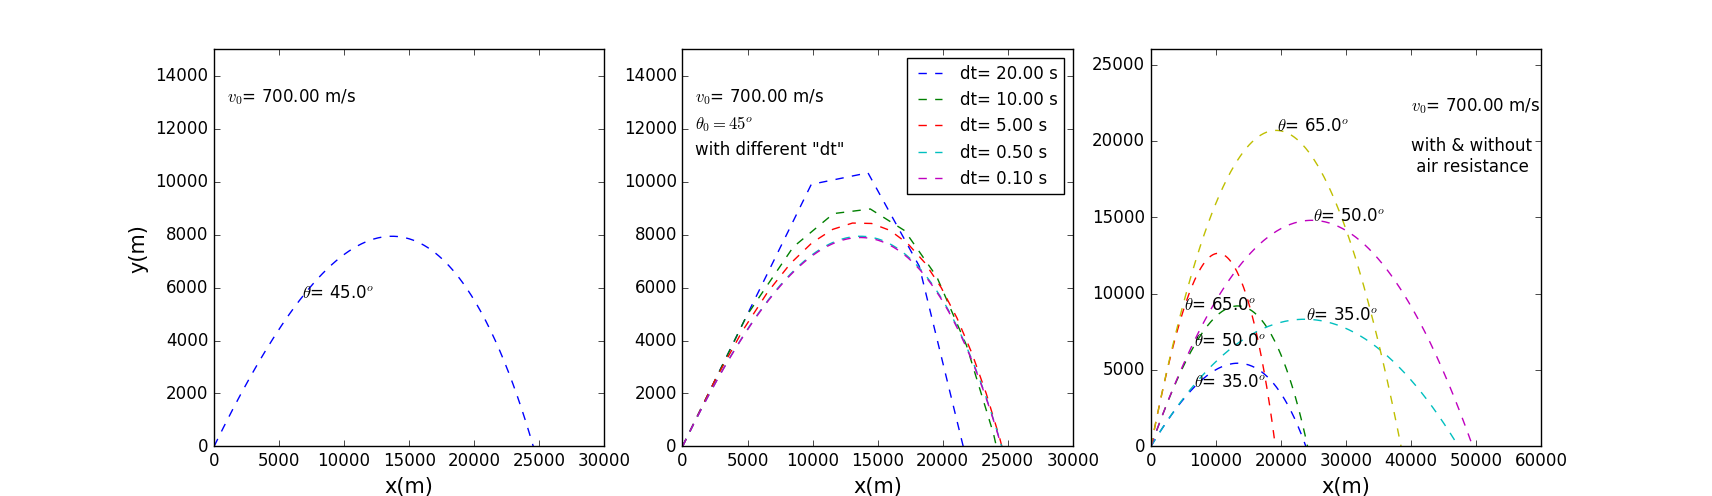
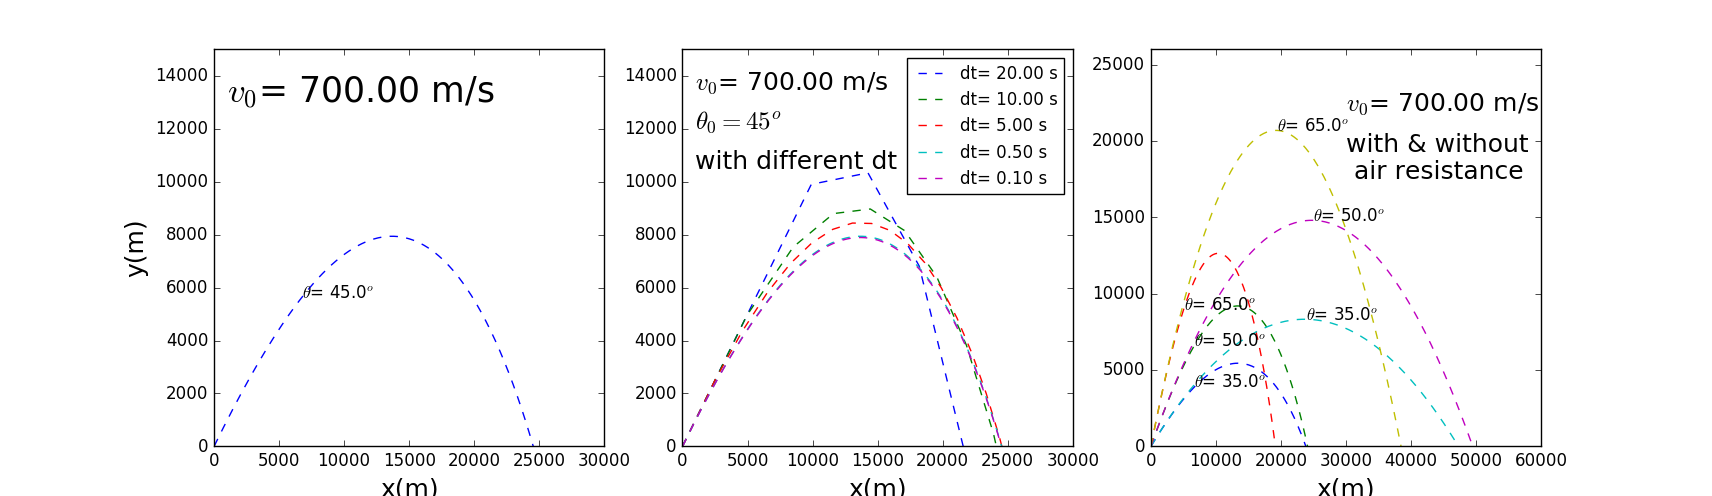
add and refine homework

diff --git a/chapter2_201604_1/ch2_projectile_20160402.py b/chapter2_201604_1/ch2_projectile_20160402.py
@@ -116,13 +116,13 @@ figure= pl.figure(figsize=(18,5))
 pl.subplot(131)
 pl.xlim(0,30000)
 pl.ylim(0,15000)
-pl.xlabel('x(m)',fontsize=15)
-pl.ylabel('y(m)',fontsize=15)
+pl.xlabel('x(m)',fontsize=18)
+pl.ylabel('y(m)',fontsize=18)
 comp= PROJECTILE(x0, y0, v0, np.pi/4, B_m, a, alpha, T0, g, 0.5)
 comp.calculate()
 comp.plot()
 pl.annotate(r'$v_{0}$'+'= '+'700.00 m/s',
-            xy=(1000,13000), fontsize=12
+            xy=(1000,13000), fontsize=25
             )            
 
 # plot the motion with diffrent dt
@@ -130,19 +130,19 @@ pl.annotate(r'$v_{0}$'+'= '+'700.00 m/s',
 pl.subplot(132)
 pl.xlim(0,30000)
 pl.ylim(0,15000)
-pl.xlabel('x(m)',fontsize=15)
+pl.xlabel('x(m)',fontsize=18)
 for dt_range in [20.,10.,5.,0.5,0.1] :
     comp= PROJECTILE_DT(x0, y0, v0, np.pi/4, B_m, a, alpha, T0, g, dt_range)
     comp.calculate()
     comp.plot()
 pl.annotate(r'$v_{0}$'+'= '+'700.00 m/s',
-            xy=(1000,13000), fontsize=12
+            xy=(1000,13500), fontsize=18
             )            
 pl.annotate(r'$\theta_{0}= 45$'+r'$^{o}$',
-            xy=(1000,12000), fontsize=12
+            xy=(1000,12000), fontsize=18
             )
-pl.annotate('with different "dt"',
-            xy=(1000,11000), fontsize=12
+pl.annotate('with different dt',
+            xy=(1000,10500), fontsize=18
             )
 pl.legend(loc='best',fontsize=12)
 
@@ -174,14 +174,14 @@ findmax= FIND_MAX(x,v,theta)
 findmax.calculate()
 print '     max range without resistance    '    # give max range WITHOUT air resistance
 print x[findmax.xmax_posi],'m     ',v[findmax.xmax_posi],'m/s    ',theta[findmax.xmax_posi],'degree'
-pl.xlabel('x(m)',fontsize=15)
+pl.xlabel('x(m)',fontsize=18)
 pl.xlim(0,60000)
 pl.ylim(0,26000)
 pl.annotate(r'$v_{0}$'+'= '+'700.00 m/s',
-            xy=(40000,22000), fontsize=12
+            xy=(30000,22000), fontsize=18
             )            
 pl.annotate('with & without \n air resistance',
-            xy=(40000,18000), fontsize=12
+            xy=(30000,17500), fontsize=18
             )
 pl.show(figure)
     

diff --git a/chapter2_201604_1/ch2_projectile_target_20160403.py b/chapter2_201604_1/ch2_projectile_target_20160403.py
@@ -50,9 +50,9 @@ class PROJECTILE(object):
     def plot(self):                # plot the trace of the projectile 
         pl.plot(self.x,self.y,'--')
         pl.annotate(r'$\theta$'+'=  '+'%.2f'%(self.theta0*180./np.pi)+r'$^{o}$',
-            xy=(16500,17000),fontsize=12)
-        pl.annotate(r'$v_{0}$'+'=  '+'%.2f'%self.v0+r'm/s',xy=(16500,16000),fontsize=12)
-        pl.annotate('start y= %.2f m'%self.y[0],xy=(16500,15000),fontsize=12)
+            xy=(7000,18000),fontsize=18)
+        pl.annotate(r'$v_{0}$'+'=  '+'%.2f'%self.v0+r'm/s',xy=(7000,16000),fontsize=18)
+        pl.annotate('start y= %.2f m'%self.y[0],xy=(7000,14000),fontsize=18)
 
         # class TARGET give the minimun seperation of a given orbit
 # where : 
@@ -162,7 +162,7 @@ ytar= [5000,3000,2000]
 #              connon's height, target's position: variable
 figure= pl.figure(figsize=(15,5))
 pl.subplot(1,3,1)
-pl.ylabel('y  (m)',fontsize=15)
+pl.ylabel('y  (m)',fontsize=18)
 for i in range(3):
     minlen,v,theta=0,v0,0
     pro = PROPER_ANGLE(up, low, n, v0, eps)
@@ -174,11 +174,11 @@ for i in range(3):
     pl.subplot(1,3,i+1)
     pro.plot()
     pl.annotate(r'target',xy=(xtar[i],ytar[i]),xytext=(+5, +15),
-         textcoords='offset points',fontsize=15)
+         textcoords='offset points',fontsize=25)
     pl.scatter([xtar[i]],[ytar[i]],100,color= 'red')
     pl.xlim(0,32000)
     pl.ylim(0,23000)
-    pl.xlabel('x  (m)',fontsize=15)
+    pl.xlabel('x  (m)',fontsize=18)
 pl.show(figure)
 
 
